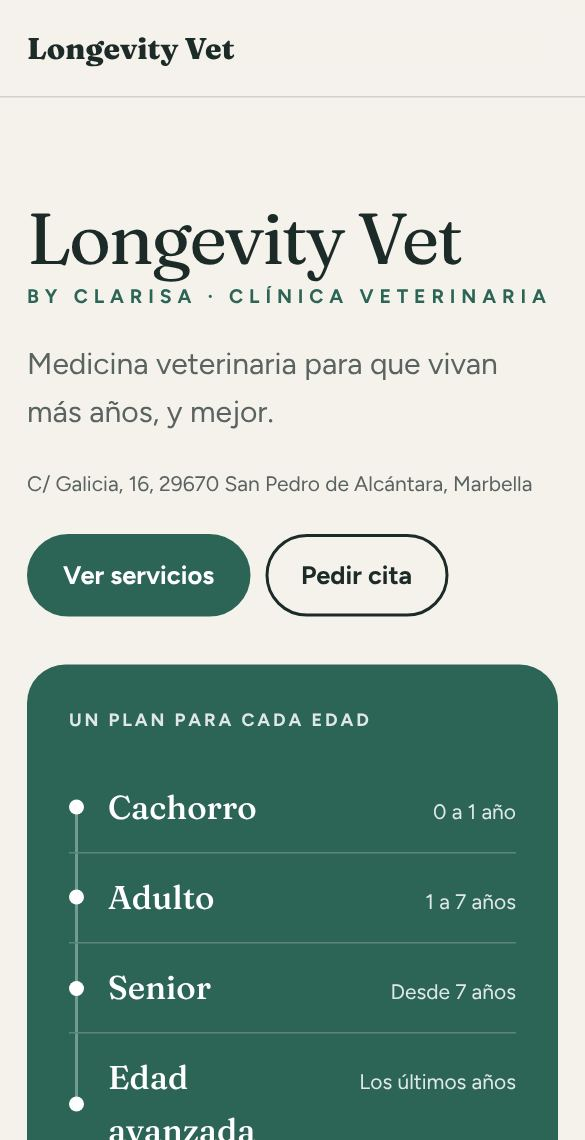
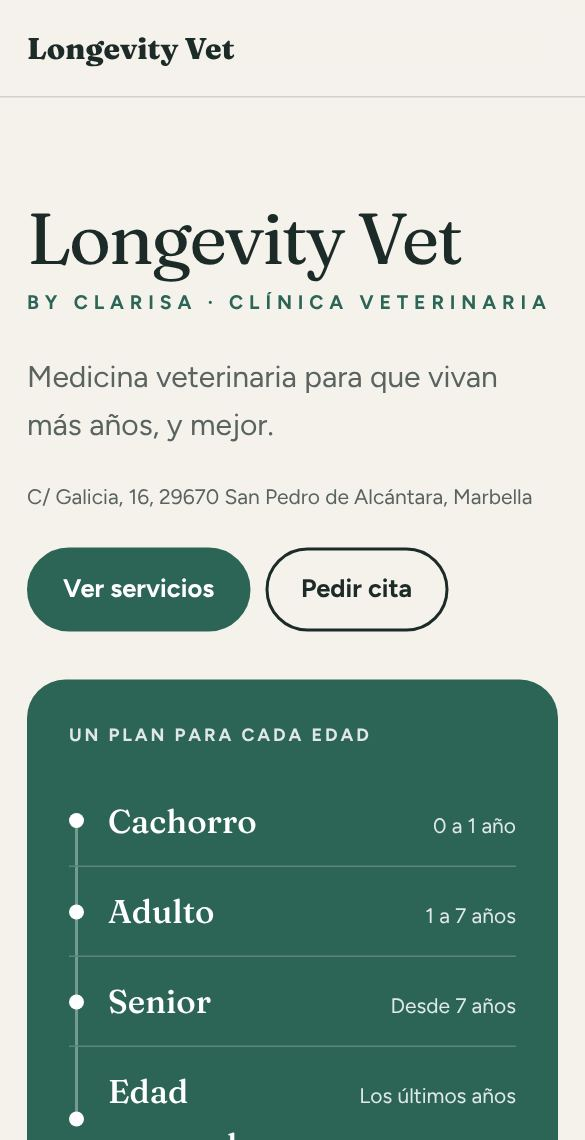
Demo de Grace Play Café, con festones y su comunidad de WhatsApp
- Adorno «festones»: el borde de la portada en semicírculos, como el
  zócalo de su sala de juego.
- Contacto.comunidad: bloque para unirse a la comunidad o canal de
  WhatsApp del negocio (también editable desde el panel).
- El subtítulo del rótulo ya no se monta cuando ocupa dos líneas.

Claude-Session: https://claude.ai/code/session_01Y5Q5chJFMzg78rRPrtv29V

diff --git a/src/styles/demo.css b/src/styles/demo.css
@@ -72,7 +72,7 @@ p { margin: 0; }
 .rotulo { font-family: var(--display); font-weight: 800; font-size: clamp(56px, 13vw, 140px); line-height: .9; letter-spacing: -0.02em; margin: 0; }
 [data-estilo='taberna'] .rotulo, [data-estilo='moderno'] .rotulo { text-transform: uppercase; }
 [data-estilo='elegante'] .rotulo { font-weight: 400; letter-spacing: -0.03em; }
-.bajo-rotulo { display: block; font-family: var(--texto); font-size: clamp(13px, 2vw, 16px); font-weight: 700; letter-spacing: .3em; text-transform: uppercase; color: var(--acento); margin-top: 12px; }
+.bajo-rotulo { display: block; line-height: 1.6; font-family: var(--texto); font-size: clamp(13px, 2vw, 16px); font-weight: 700; letter-spacing: .3em; text-transform: uppercase; color: var(--acento); margin-top: 12px; }
 .eslogan { font-size: clamp(20px, 3vw, 28px); max-width: 30ch; color: var(--suave); }
 .datos-portada { display: flex; flex-wrap: wrap; gap: 8px 22px; font-size: 14px; color: var(--suave); }
 .estado { display: inline-flex; align-items: center; gap: 9px; font-weight: 700; color: var(--tinta); }
@@ -317,3 +317,14 @@ p { margin: 0; }
 /* Reserva de muestra: el mensaje que llegaría, con aspecto de burbuja de chat */
 .muestra-mensaje { display: grid; gap: 10px; }
 .muestra-mensaje pre { margin: 0; padding: 14px 16px; border-radius: 14px 14px 14px 4px; background: #e7f8dc; color: #1d2a1a; font: 15px/1.5 var(--texto); white-space: pre-wrap; max-width: 34ch; box-shadow: 0 1px 2px rgb(0 0 0 / .12); }
+
+/* Adorno «festones»: el borde de la banda en semicírculos, como el zócalo
+   pintado de las salas infantiles, en lugar de la ola */
+[data-adorno='festones'] .portada-banda .olas { display: none; }
+[data-adorno='festones'] .portada-banda::after { content: ''; display: block; height: 28px; background: radial-gradient(circle at 50% 100%, var(--fondo) 27px, transparent 28px) 0 0 / 56px 28px repeat-x; }
+
+/* Comunidad de WhatsApp: llamada a unirse, con el botón al lado del texto en escritorio */
+.comunidad-caja { display: grid; gap: 4px; align-items: center; }
+.comunidad-caja .cabeza { margin-bottom: 12px; }
+.comunidad-caja .boton { justify-self: start; }
+@media (min-width: 900px) { .comunidad-caja { grid-template-columns: minmax(0, 1fr) auto; gap: 40px; } .comunidad-caja .cabeza { margin-bottom: 0; } }

diff --git a/src/lib/negocios.ts b/src/lib/negocios.ts
@@ -24,8 +24,8 @@ export type Negocio = {
     sobreAcento?: string;
     /** Composición de la portada (ver components/Portada.astro). */
     portada?: 'rotulo' | 'cartel' | 'ficha' | 'banda' | 'dividida';
-    /** Detalle decorativo propio: toldo de rayas, cuadrícula de taller u olas. */
-    adorno?: 'ninguno' | 'toldo' | 'cuadricula' | 'olas';
+    /** Detalle decorativo propio: toldo de rayas, cuadrícula de taller, olas o festones (el borde ondulado de pared infantil). */
+    adorno?: 'ninguno' | 'toldo' | 'cuadricula' | 'olas' | 'festones';
     /** Carta en tarjetas por sección o como una carta impresa de una columna. */
     carta?: 'tarjetas' | 'menu';
     /** Esquinas: redondo (botones de píldora), suave (8 px) o recto. */
@@ -41,6 +41,8 @@ export type Negocio = {
     email?: string;
     instagram?: string;
     facebook?: string;
+    /** Enlace de invitación a su comunidad o canal de WhatsApp (avisos de horarios, talleres…). */
+    comunidad?: string;
   };
   direccion: {
     calle: string;

diff --git a/src/lib/panel.ts b/src/lib/panel.ts
@@ -58,7 +58,7 @@ export const camposNegocio = (slug: string) => [
     name: 'contacto',
     label: 'Contacto',
     widget: 'object',
-    fields: [texto('telefono', 'Teléfono'), texto('whatsapp', 'WhatsApp'), texto('email', 'Correo'), texto('instagram', 'Instagram (sin @)'), texto('facebook', 'Facebook')],
+    fields: [texto('telefono', 'Teléfono'), texto('whatsapp', 'WhatsApp'), texto('email', 'Correo'), texto('instagram', 'Instagram (sin @)'), texto('facebook', 'Facebook'), texto('comunidad', 'Comunidad o canal de WhatsApp (enlace)')],
   },
   {
     name: 'direccion',
